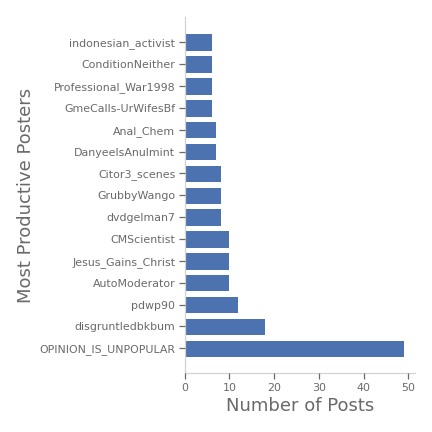
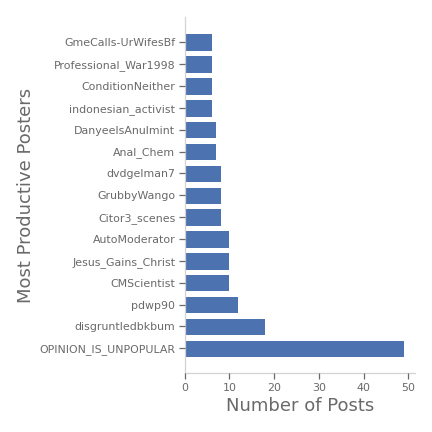
fiddling with pweave

diff --git a/wsba.py b/wsba.py
@@ -459,7 +459,7 @@ def posts_per_hour(save=[None,None]):
         plt.savefig(save[1])   
         
 
-def field_by_age(field='score',logx=False,logy=False,save=False,ymax=None,ymin=None):
+def fig_field_by_age(field='score',logx=False,logy=False,save=False,ymax=None,ymin=None):
     '''
     returns the filename of a figure where some field is plotted 
     as a function of the age of the post in minutes

diff --git a/README.md b/README.md
@@ -51,8 +51,8 @@ A total of 1408 submission authors are represented in the data. The plot below s
 | <a href=https://www.reddit.com/user/Citor3_scenes/>Citor3_scenes</a> | 8 |
 | <a href=https://www.reddit.com/user/GrubbyWango/>GrubbyWango</a> | 8 |
 | <a href=https://www.reddit.com/user/dvdgelman7/>dvdgelman7</a> | 8 |
-| <a href=https://www.reddit.com/user/DanyeelsAnulmint/>DanyeelsAnulmint</a> | 7 |
 | <a href=https://www.reddit.com/user/Anal_Chem/>Anal_Chem</a> | 7 |
+| <a href=https://www.reddit.com/user/DanyeelsAnulmint/>DanyeelsAnulmint</a> | 7 |
 | <a href=https://www.reddit.com/user/indonesian_activist/>indonesian_activist</a> | 6 |
 | <a href=https://www.reddit.com/user/ConditionNeither/>ConditionNeither</a> | 6 |
 | <a href=https://www.reddit.com/user/Professional_War1998/>Professional_War1998</a> | 6 |
@@ -90,8 +90,8 @@ There seem to be at least three measures related to the impact of each submissio
 1. Number of Comments - The most people are commenting on a post, the more exposure it's received and likely to receive in the future
 1. Upvote Ratio - The proportion of upvotes to the total number of votes
 
-![Figure 7](![Figure](figures/score_by_age.png)
-<Figure size 432x432 with 1 Axes>)
+![Figure](figures/score_by_age.png)
+<Figure size 432x432 with 1 Axes>
 
 
 
